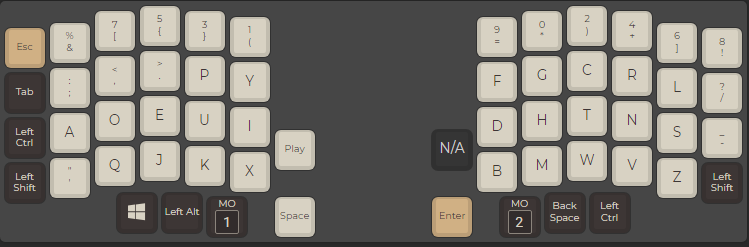
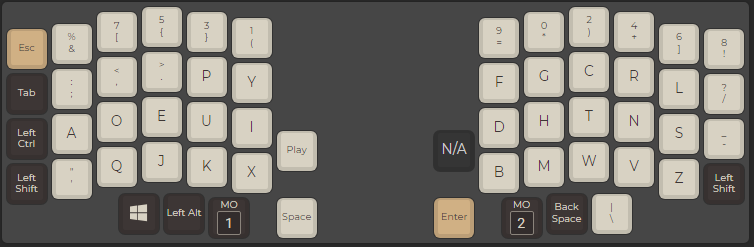
Oli's layout v1.2

diff --git a/keyboards/splitkb/aurora/lily58/keymaps/olillin/readme.md b/keyboards/splitkb/aurora/lily58/keymaps/olillin/readme.md
@@ -2,6 +2,10 @@
 
 This is my keymap for the Lily58 keyboard and the [Programmer Dvorak Keyboard Layout](http://www.kaufmann.no/roland/dvorak/).
 
+## Notes
+
+- My keyboard currently has two broken keys which is why there is a P on the Symbols layer.  
+
 ## Layers
 
 ### Layer 0: Base layer
@@ -12,15 +16,15 @@ This is where your basic letters live in addition to some symbols on the top row
 
 The homing thumb fingers are used to access the different layers.
 
-* The homing left thumb finger gives access to the Symbols layer
-* The homing right thumb finger gives access to the Navigation layer
-* Pressing both homing thumb fingers gives access to the Numpad layer
+- The homing left thumb finger gives access to the Symbols layer
+- The homing right thumb finger gives access to the Navigation layer
+- Pressing both homing thumb fingers gives access to the Numpad layer
 
 ### Layer 1: Symbols
 
 ![Layer 1](layer_screenshots/layer1.png)
 
-The Symbols layer gives access to some symbols in addition to the delete key as an alternate to backspace.
+The Symbols layer gives access to some symbols in addition to the delete key as an alternate to backspace.  
 
 ### Layer 2: Navigation
 

diff --git a/keyboards/splitkb/aurora/lily58/keymaps/olillin/changelog.md b/keyboards/splitkb/aurora/lily58/keymaps/olillin/changelog.md
@@ -8,3 +8,9 @@
 - Added extra function keys to Numpad layer
 - Added media controls to Numpad layer
 - Added mouse controls to Navigation layer
+
+## v1.2
+
+- Added shift to Symbols layer
+- Added "compose" key in order to type Swedish characters (å, ä and ö)
+- Added modifier keys to Numpad layer
